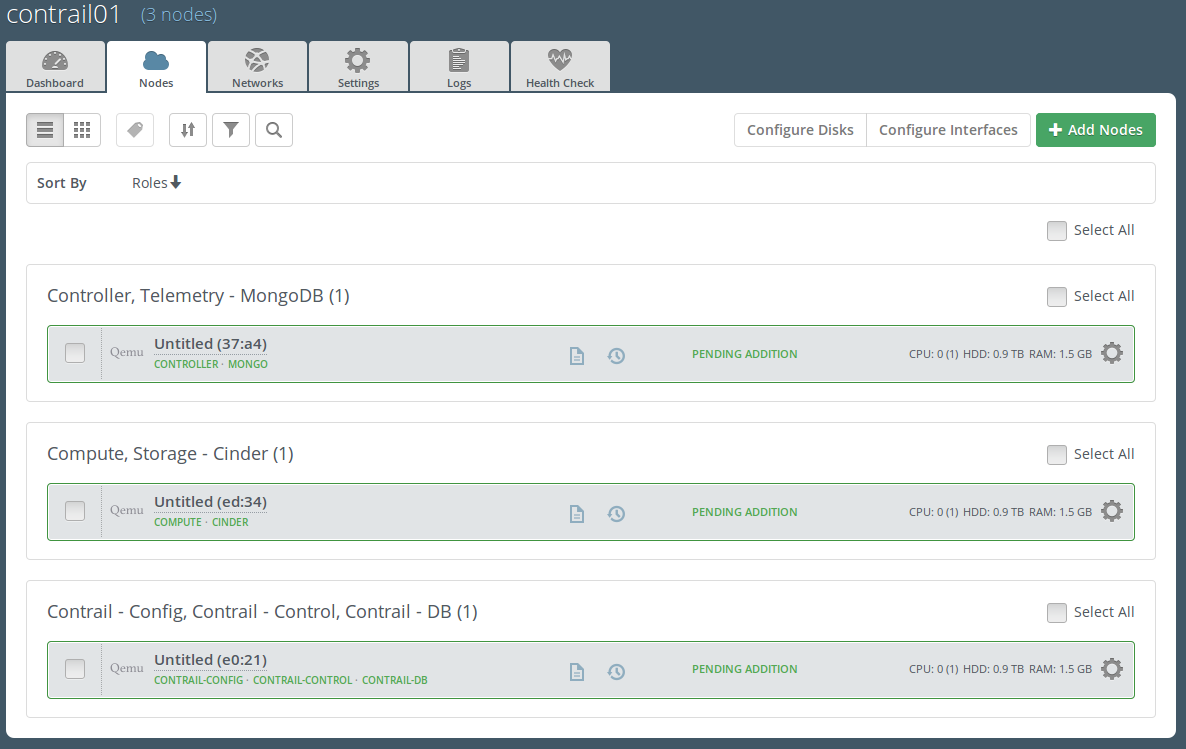
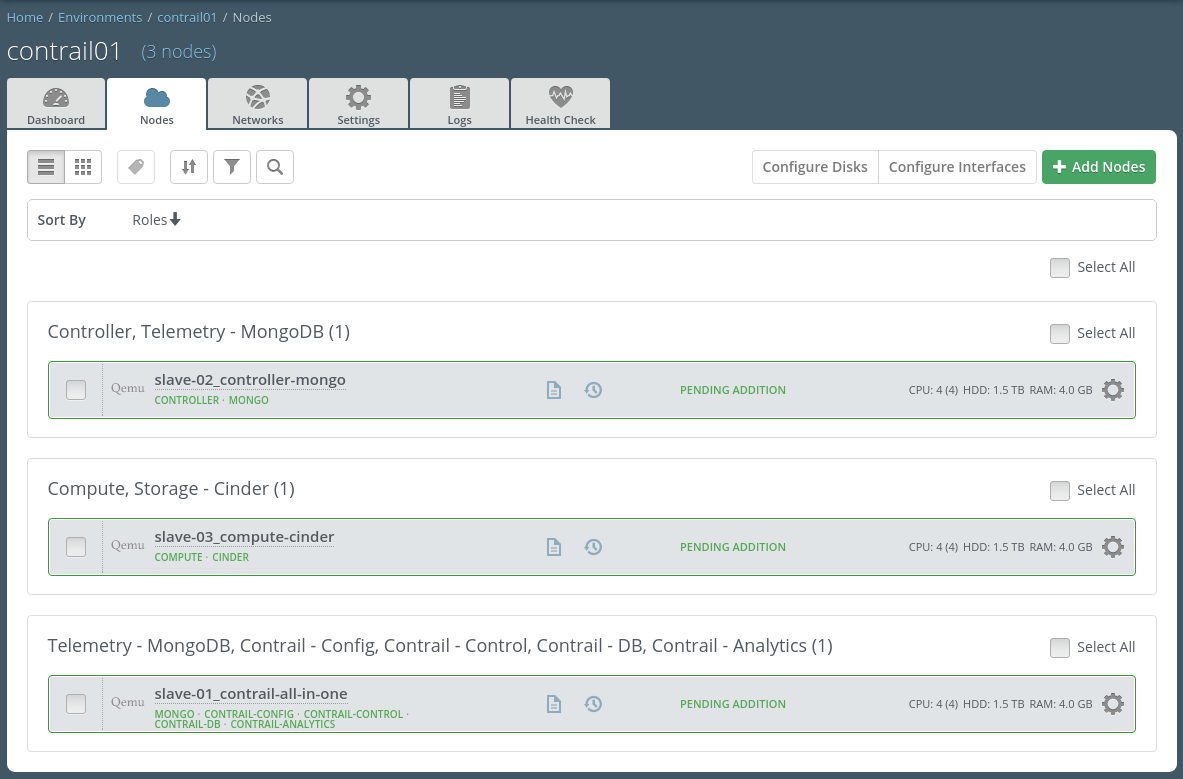
User guide updated with new features
- analytics node role added
- screenshots updated

Changed region(s): [[0.0, 0.0, 1.0, 1.0]]

diff --git a/doc/source/install_guide.rst b/doc/source/install_guide.rst
@@ -18,13 +18,13 @@ To install the Contrail plugin:
 #.  Copy the rpm package downloaded at the previous step to the Fuel Master node and install the plugin
     ::
 
-        scp contrail-4.0-4.0.0-1.noarch.rpm  <Fuel Master node ip>:/tmp/
+        scp contrail-4.0-4.0.1-1.noarch.rpm  <Fuel Master node ip>:/tmp/
 
 #.  Log into the Fuel Master node and install the plugin
     ::
 
         ssh <the Fuel Master node ip>
-        fuel plugins --install contrail-4.0-4.0.0-1.noarch.rpm
+        fuel plugins --install contrail-4.0-4.0.1-1.noarch.rpm
 
     You should get the following output
     ::
@@ -39,10 +39,10 @@ To install the Contrail plugin:
        You can obtain the Juniper Contrail installation package from Juniper by subscription.
        More information can be found on the
        `official Juniper Contrail web-site <http://www.juniper.net/us/en/products-services/sdn/contrail/contrail-networking/>`__.
-    
+
     ::
 
-        scp contrail-install-packages_3.0.2.0-51~14.04-liberty_all.deb \
+        scp contrail-install-packages_3.0.2.1-4~liberty_all.deb \
         <Fuel Master node ip>:/var/www/nailgun/plugins/contrail-4.0/
         ssh <Fuel Master node ip> /var/www/nailgun/plugins/contrail-4.0/install.sh
 
@@ -97,7 +97,7 @@ To configure the Contrail plugin, follow the steps below:
 
     *   At least 1 Compute
 
-    *   At least 1 node with Contrail-Control, Contrail-Config, Contrail-DB roles selected
+    *   At least 1 node with Contrail-Control, Contrail-Config, Contrail-Analytics and Contrail-DB roles selected
 
         .. note::
 
@@ -106,7 +106,7 @@ To configure the Contrail plugin, follow the steps below:
     *   If you plan to use Heat with autoscaling, in addition to Ceilometer you need to add node with MongoDB role
 
     These three roles are not necessary need to be on the same node.
-    You can place them on different nodes if needed.
+    You can place them on different nodes if needed, for example, Database and Analytics can be placed on dedicated nodes to improve performance.
 
     .. image:: images/contrail-roles.png
 

diff --git a/doc/source/sys_reqs.rst b/doc/source/sys_reqs.rst
@@ -7,9 +7,11 @@ The plugin has the following requirements for software and hardware:
 | Fuel version                   | 8.0                                                             |
 +--------------------------------+-----------------------------------------------------------------+
 | Juniper Contrail version       | 3.0.2                                                           |
+|                                | testing was performed on 3.0.2.1-4                              |
 +--------------------------------+-----------------------------------------------------------------+
 | Hardware                       | *   At least 1 additional server for Contrail controller        |
-|                                |     (contrail-control, contrail-config, contrail-db roles).     |
+|                                |     (contrail-control, contrail-config, contrail-analytics,     |
+|                                |     contrail-db roles).                                         |
 |                                |     Contrail-DB requires 320 Gb disk space.                     |
 |                                |                                                                 |
 |                                | *   Additional network interface on each                        |

diff --git a/doc/source/new_features.rst b/doc/source/new_features.rst
@@ -1,7 +1,9 @@
-New features in plugin version 4.0-4.0.0-1
+New features in plugin version 4.0-4.0.1-1
 ==========================================
 
 * Fuel 8.0 with OpenStack Liberty support
+
+* Dedicated Analytics node role
 
 * DPDK on VF (experimental)
 

diff --git a/doc/source/index.rst b/doc/source/index.rst
@@ -1,6 +1,6 @@
 .. _fuel-plugin-contrail:
 
-Guide to the Contrail plugin version 4.0-4.0.0-1 for Fuel 8.0
+Guide to the Contrail plugin version 4.0-4.0.1-1 for Fuel 8.0
 =============================================================
 
 .. toctree::
